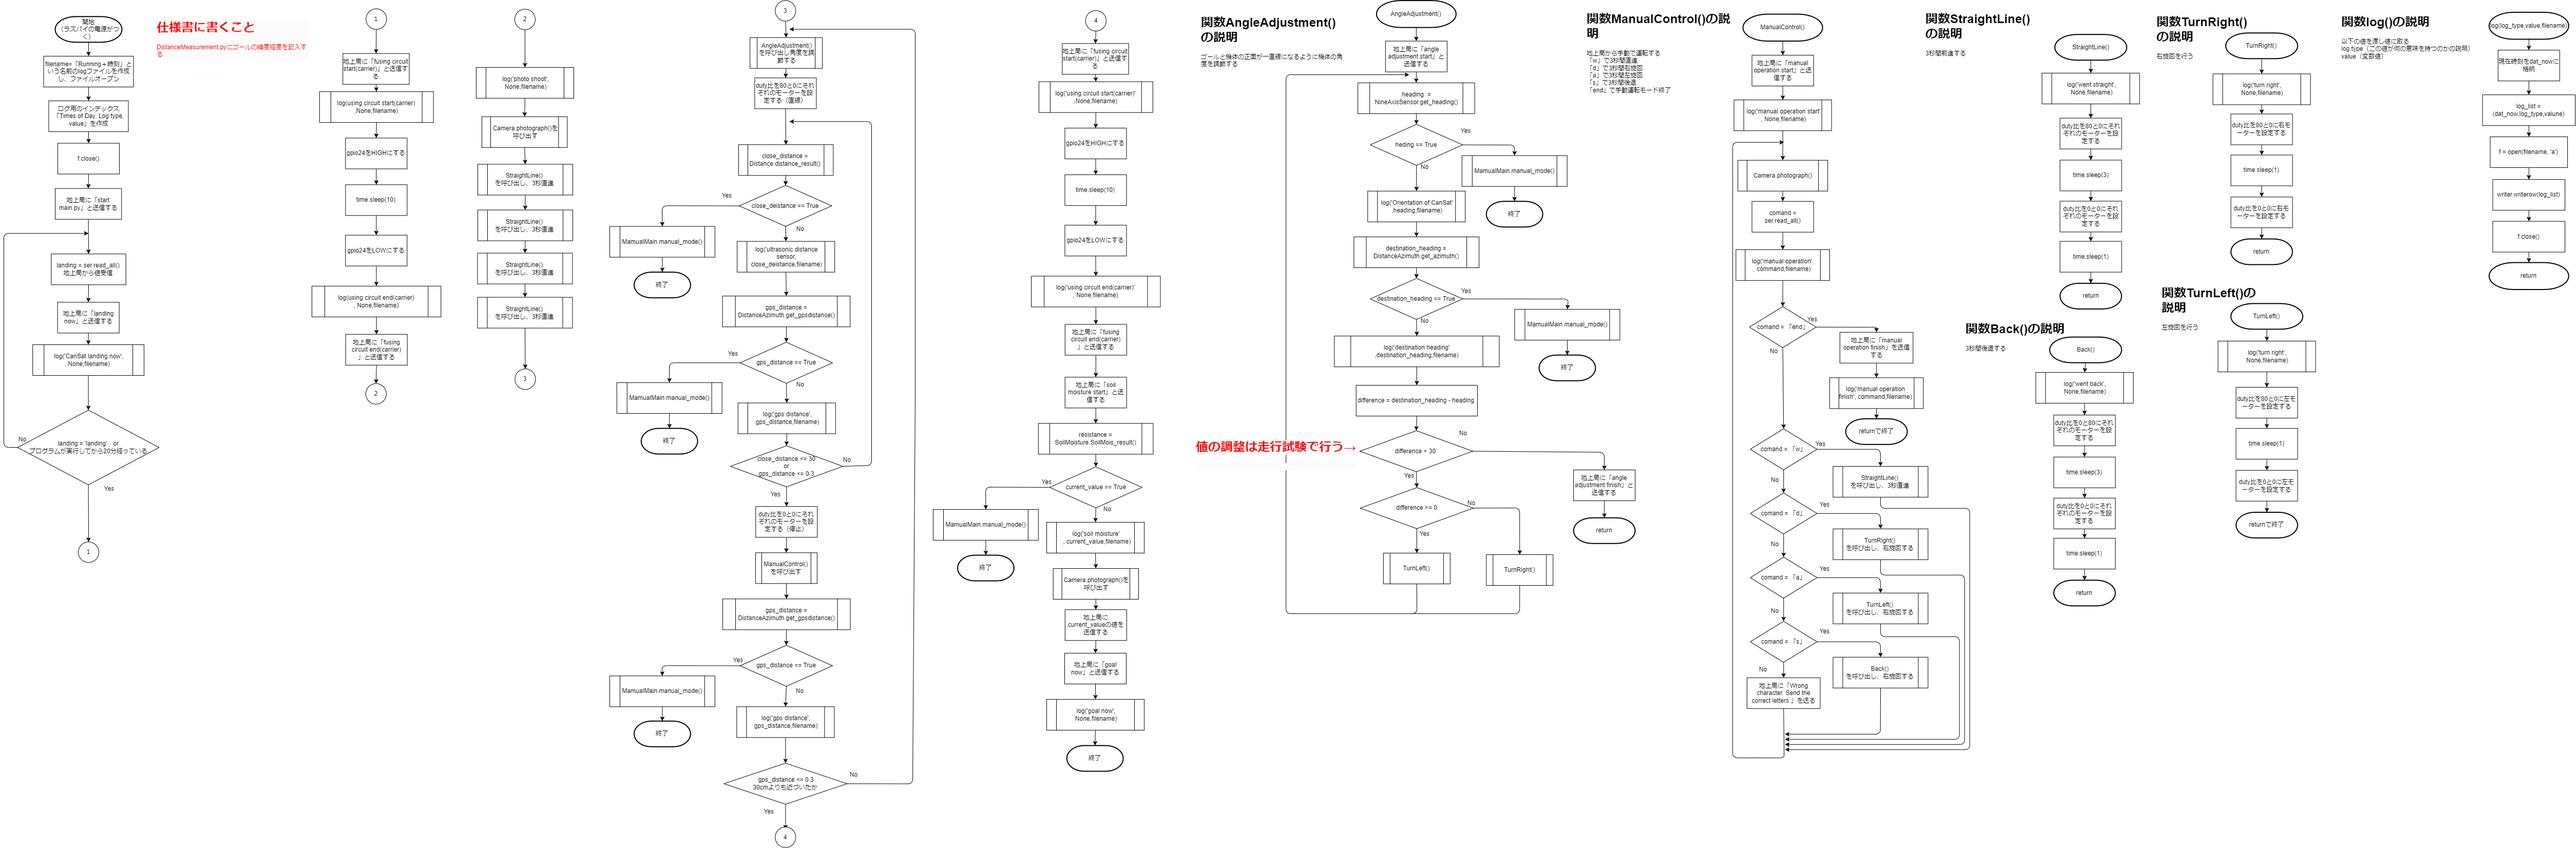
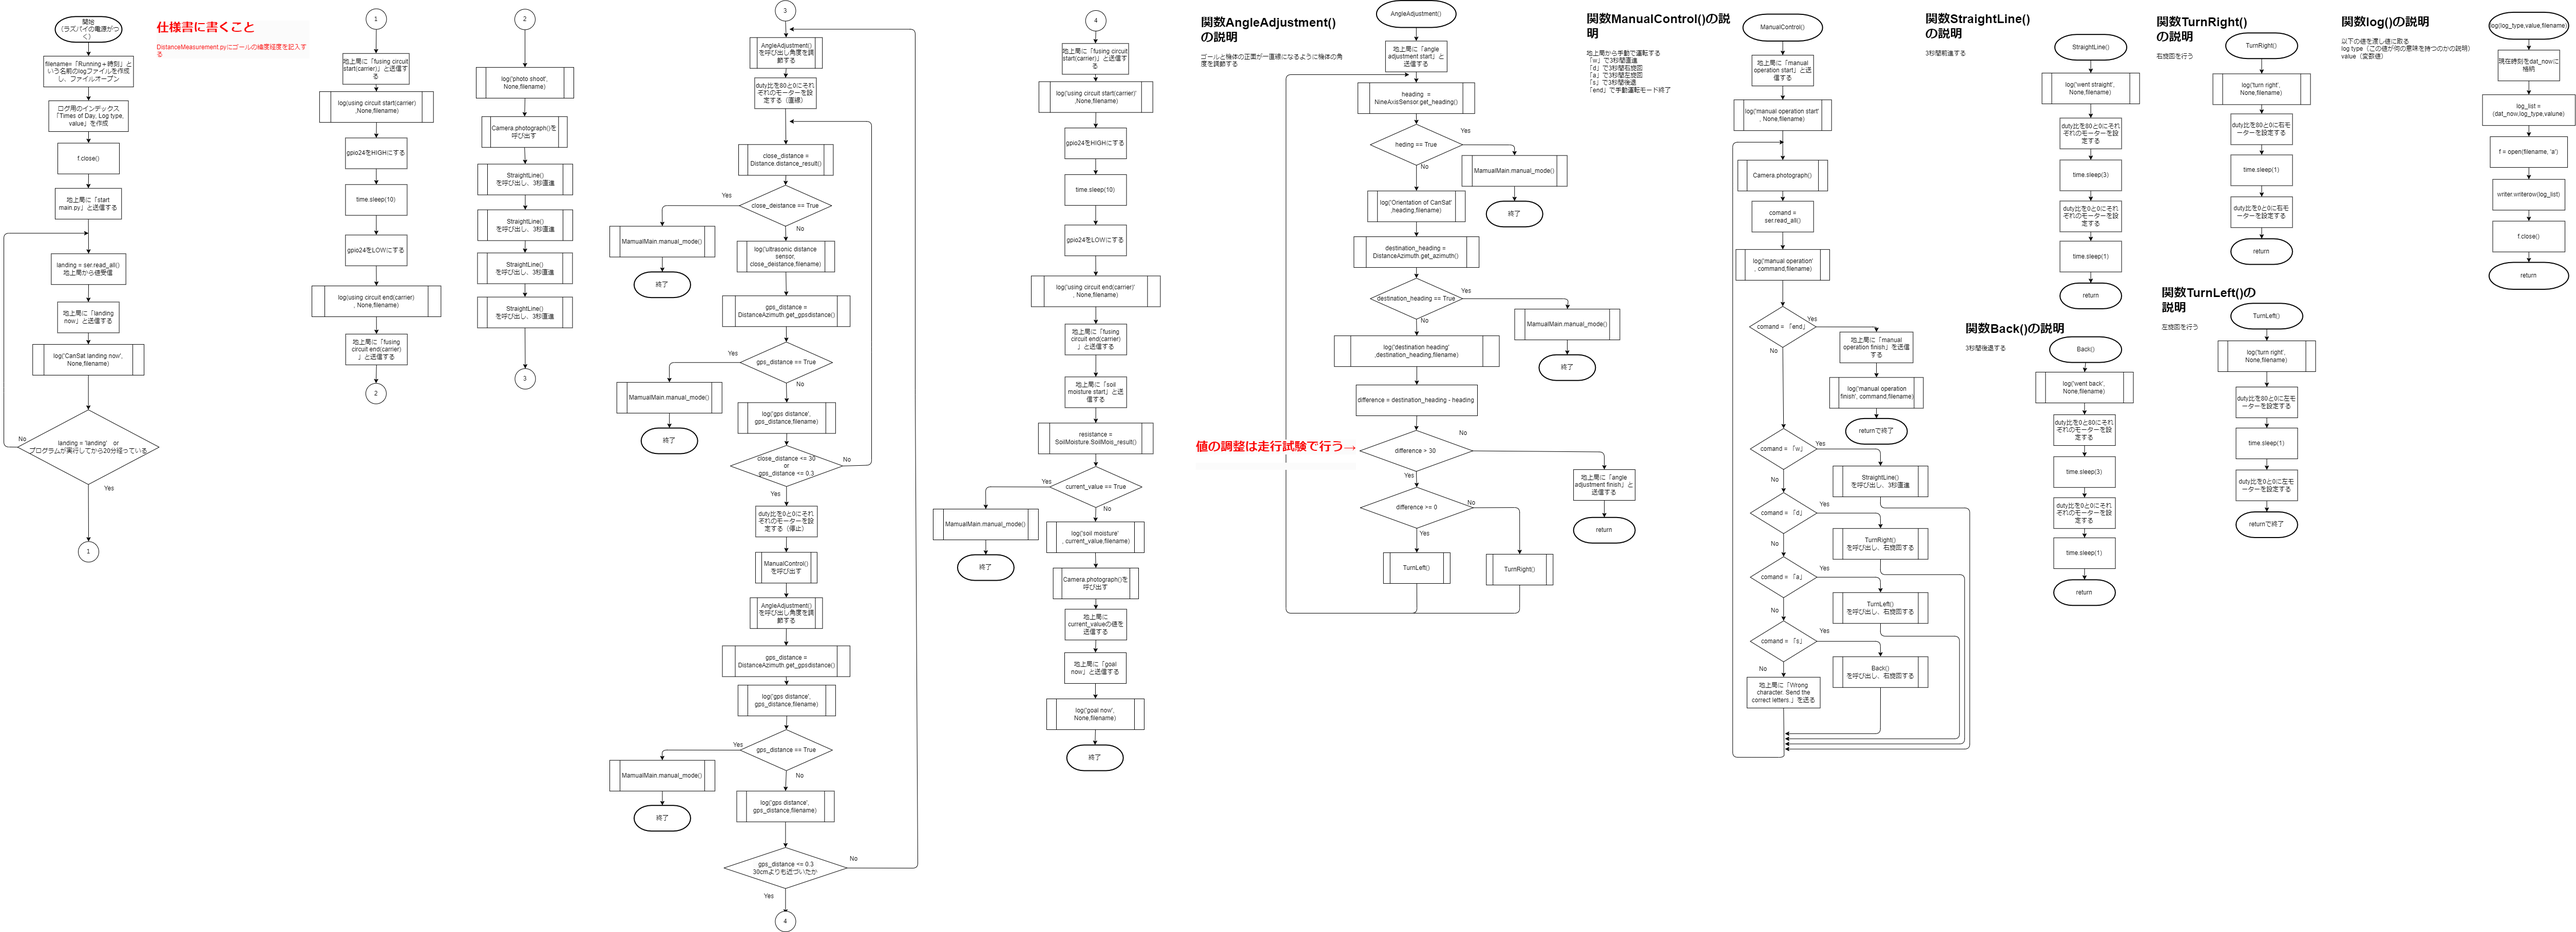
微調整

diff --git a/実験用プログラム/DrivingTest.py b/実験用プログラム/DrivingTest.py
@@ -8,95 +8,100 @@ import Camera   #カメラモジュール
 import NineAxisSensor   #9軸センサ
 import DistanceAzimuth  #GPSからゴールとの直線距離と方位角を求める
 import Distance     #超音波距離センサ
-import SoilMoisture #土壌水分センサ
+import ManualMain #手動運転モード
 
+#===moterの配線===
+GPIO.setwarnings(False)
+GPIO.setmode(GPIO.BCM)
+GPIO.setup(5, GPIO.OUT)
+GPIO.setup(6, GPIO.OUT)
+GPIO.setup(19, GPIO.OUT)
+GPIO.setup(26, GPIO.OUT)
 
-#===3秒間前進する関数　引数：なし　戻り値：なし===
-def StraightLine():
-    p1.ChangeDutyCycle(80) #duty比（moterで動かすための値）
-    p2.ChangeDutyCycle(0)
-    p3.ChangeDutyCycle(80) #duty比（moterで動かすための値）
-    p4.ChangeDutyCycle(0)
-    time.sleep(3)
-    p1.ChangeDutyCycle(0)
-    p2.ChangeDutyCycle(0)
-    p3.ChangeDutyCycle(0)
-    p4.ChangeDutyCycle(0)
-    time.sleep(1)
-    return
+#===進行方向に機体を置き、後ろから見た時の右モーター===
+p1 = GPIO.PWM(6, 50) #50Hz
+p2 = GPIO.PWM(5, 50) #50Hz
+#===進行方向に機体を置き、後ろから見た時の左モーター===
+p3 = GPIO.PWM(19, 50) #50Hz
+p4 = GPIO.PWM(26, 50) #50Hz
 
-#===3秒間後退する関数　引数：なし　戻り値：なし===
-def Back():
-    p1.ChangeDutyCycle(0) #duty比（moterで動かすための値）
-    p2.ChangeDutyCycle(80)
-    p3.ChangeDutyCycle(0) #duty比（moterで動かすための値）
-    p4.ChangeDutyCycle(80)
-    time.sleep(3)
-    p1.ChangeDutyCycle(0)
-    p2.ChangeDutyCycle(0)
-    p3.ChangeDutyCycle(0)
-    p4.ChangeDutyCycle(0)
-    time.sleep(1)
-    return
-
-#===右旋回する関数　引数：なし　戻り値：なし===
-def TurnRight():
-    p1.ChangeDutyCycle(100) #duty比（moterで動かすための値）
-    p2.ChangeDutyCycle(0)
-    time.sleep(1)   
-    p1.ChangeDutyCycle(0)
-    p2.ChangeDutyCycle(0)
-    time.sleep(1)
-    return
-
-#===左旋回する関数　引数：なし　戻り値：なし===
-def TurnLeft():
-    p3.ChangeDutyCycle(100) #duty比（moterで動かすための値）
-    p4.ChangeDutyCycle(0)
-    time.sleep(1)   
-    p3.ChangeDutyCycle(0)
-    p4.ChangeDutyCycle(0)
-    time.sleep(1)
-    return
+p1.start(0)
+p2.start(0)
+p3.start(0)
+p4.start(0)
 
 #===地上局から手動で運転する関数　引数：なし　戻り値：なし===
 def ManualControl():
     ser = serial.Serial(PORT, BAUD_RATE)
     ser.write(b'manual operation start')
-    log('manual operation start','none')    #関数logにマニュアル運転がスタートしたと残す
+    log('manual operation start',None,filename)    #関数logにマニュアル運転がスタートしたと残す
 
     while True:
-        Camera.photograph() #カメラの写真を送信
+        #Camera.photograph() #カメラの写真を送信
         command = ser.read_all()
-        log('manual operation',command) #関数ログに値を渡す
+        log('manual operation',command,filename) #関数ログに値を渡す
         ser.write(b'receive')   #地上局に受け取った値を戻す
         ser.write(command.encode('utf-8'))
 
         if command == b'end':    #地上局から「end」を受け取ったらManualControlを終了する
+            ser.write(b'manual operation finish')
+            log('manual operation finish',None,filename)
+            ser.close()
             break
         elif command == b'w':    #地上局から「w」を受け取ったら3秒間直進する
-            StraightLine()
+                log('went straight',None,filename)   #前進したというログを残す
+                p1.ChangeDutyCycle(80) #duty比（moterで動かすための値）
+                p2.ChangeDutyCycle(0)
+                p3.ChangeDutyCycle(80) #duty比（moterで動かすための値）
+                p4.ChangeDutyCycle(0)
+                time.sleep(3)
+                p1.ChangeDutyCycle(0)
+                p2.ChangeDutyCycle(0)
+                p3.ChangeDutyCycle(0)
+                p4.ChangeDutyCycle(0)
+                time.sleep(1)
         elif command == b'd':    #地上局から「d」を受け取ったら右旋回する
-            TurnRight()
+                log('turn right',None,filename)   #右旋回したというログを残す
+                p1.ChangeDutyCycle(100) #duty比（moterで動かすための値）
+                p2.ChangeDutyCycle(0)
+                time.sleep(1)   
+                p1.ChangeDutyCycle(0)
+                p2.ChangeDutyCycle(0)
+                time.sleep(1)
         elif command == b'a':    #地上局から「a」を受け取ったら左旋回する
-            TurnLeft()
+                log('turn left',None,filename)   #左旋回したというログを残す
+                p3.ChangeDutyCycle(100) #duty比（moterで動かすための値）
+                p4.ChangeDutyCycle(0)
+                time.sleep(1)   
+                p3.ChangeDutyCycle(0)
+                p4.ChangeDutyCycle(0)
+                time.sleep(1)
         elif command == b's':    #地上局から「s」を受け取ったら3秒間後退する
-            Back()
+                log('went back',None,filename)   #後退したというログを残す
+                p1.ChangeDutyCycle(0) #duty比（moterで動かすための値）
+                p2.ChangeDutyCycle(80)
+                p3.ChangeDutyCycle(0) #duty比（moterで動かすための値）
+                p4.ChangeDutyCycle(80)
+                time.sleep(3)
+                p1.ChangeDutyCycle(0)
+                p2.ChangeDutyCycle(0)
+                p3.ChangeDutyCycle(0)
+                p4.ChangeDutyCycle(0)
+                time.sleep(1)
+        elif command == b'':
+            pass
         else:   #どの条件分岐にも当てはまらなかったら地上局に文字が違うと送る
             ser.write(b'Wrong character.Send the correct letters.')
 
-    ser.close()
     return 
 
-#===logを残す関数　引数：log_type(この値が何の意味を持つのかの説明),value(変数値)　戻り値：なし===
-def log(log_type,value):
-    dat_now = datetime.datetime.now()   #現在日時を取得する
-    explanation = log_type
-    variable = value
-    writer = csv.writer(f, lineterminator='\n') 
-    log_list = [dat_now,explanation,variable]   #リストに各値を挿入
-
+#===logを残す関数　引数：log_type(この値が何の意味を持つのかの説明),value(変数値),filename(グローバルで定義したファイル名)　戻り値：なし===
+def log(log_type,value,filename):
     f = open(filename,'a')
+    dat_now = datetime.datetime.now()   #現在日時を取得する
+    writer = csv.writer(f, lineterminator='\n') 
+    log_list = (dat_now,log_type,value)   #リストに各値を挿入
+
     writer.writerow(log_list)
     print(log_list)
     f.close()
@@ -109,19 +114,39 @@ def AngleAdjustment():
     ser.write(b'angle adjustment start')    #ゴールと機体の正面が一直線になるように機体の角度を調節するフェーズになったと地上局に送る
 
     while True:
-        heading = NineAxisSensor.Azimuth()    #9軸センサの地磁気値を呼び出す関数名が変更になる可能性大　地磁気から求めた磁方位角を格納する
-        log('Orientation of CanSat',heading)
+        heading = NineAxisSensor.Azimuth()    #地磁気から求めた磁方位角を格納する
+
+        if heading == True: #９軸センサがOSErrer出てないかの条件分岐
+            ManualMain.manual_mode() #手動運転モードに切り替える
+        else:
+            log('Orientation of CanSat',heading,filename)
 
         distination_heading = DistanceAzimuth.get_azimuth() #緯度経度から求めた方位角を格納する
-        log('destination heading',distination_heading)
+
+        if distination_heading == True: #gpsがエラー出てないかの条件分岐
+            ManualMain.manual_mode() #手動運転モードに切り替える
+        else:
+            log('destination heading',distination_heading,filename)
 
         difference = distination_heading - heading
 
         if difference>30:   #ここの値の調節は走行試験で行う
             if difference>=0:
-                TurnLeft()
+                log('turn left',None,filename)   #左旋回したというログを残す
+                p3.ChangeDutyCycle(100) #duty比（moterで動かすための値）
+                p4.ChangeDutyCycle(0)
+                time.sleep(1)   
+                p3.ChangeDutyCycle(0)
+                p4.ChangeDutyCycle(0)
+                time.sleep(1)
             else:
-                TurnRight()
+                    log('turn right',None,filename)   #右旋回したというログを残す
+                    p1.ChangeDutyCycle(100) #duty比（moterで動かすための値）
+                    p2.ChangeDutyCycle(0)
+                    time.sleep(1)   
+                    p1.ChangeDutyCycle(0)
+                    p2.ChangeDutyCycle(0)
+                    time.sleep(1)
         else:
             ser.write(b'angle adjustment finish')
             break
@@ -130,39 +155,8 @@ def AngleAdjustment():
     ser.close()
     return 
 
-
-#===溶断回路の設定(ピン番号変わる可能性あり)===
-soil_moisture_spring = 23
-carrier = 24
-
 # ===GPIO番号指定の準備===
 GPIO.setmode(GPIO.BCM)
-
-# ===溶断回路の配線===
-GPIO.setup(soil_moisture_spring, GPIO.OUT)
-GPIO.setup(carrier, GPIO.OUT)
-
-
-#===moterの配線===
-GPIO.setwarnings(False)
-GPIO.setmode(GPIO.BCM)
-GPIO.setup(5, GPIO.OUT)
-GPIO.setup(6, GPIO.OUT)
-GPIO.setup(19, GPIO.OUT)
-GPIO.setup(26, GPIO.OUT)
-
-#===進行方向に機体を置き、後ろから見た時の右モーター===
-p2 = GPIO.PWM(5, 50) #50Hz
-p1 = GPIO.PWM(6, 50) #50Hz
-
-#===進行方向に機体を置き、後ろから見た時の左モーター===
-p3 = GPIO.PWM(19, 50) #50Hz
-p4 = GPIO.PWM(26, 50) #50Hz
-
-p1.start(0)
-p2.start(0)
-p3.start(0)
-p4.start(0)
 
 #プログラムの処理時間を求めるための基準値
 start_time = time.time()
@@ -178,16 +172,27 @@ filename = 'Running' + dt_start.strftime('%Y年%m月%d日_%H時%M分%S秒') + '.
 
 f = open(filename, 'a')     
 writer = csv.writer(f, lineterminator='\n') 
-index=['Time of Day','Log type value','value']  #表のインデックスを付ける
+index=('Time of Day','Log type value','value')  #表のインデックスを付ける
 writer.writerow(index)
 f.close()
 
 #===メインプログラム===
 #---機体をゴールまで進ませる---
 
-log('photo shoot',None)
-    
+log('photo shoot',None,filename)
 Camera.photograph() #写真を撮って地上局に伝える
+
+log('went straight',None,filename)   #前進したというログを残す
+p1.ChangeDutyCycle(80) #duty比（moterで動かすための値）
+p2.ChangeDutyCycle(0)
+p3.ChangeDutyCycle(80) #duty比（moterで動かすための値）
+p4.ChangeDutyCycle(0)
+time.sleep(9)
+p1.ChangeDutyCycle(0)
+p2.ChangeDutyCycle(0)
+p3.ChangeDutyCycle(0)
+p4.ChangeDutyCycle(0)
+time.sleep(1)
 
 AngleAdjustment()   #ゴールと機体の向きを一直線にする
     
@@ -199,10 +204,16 @@ p4.ChangeDutyCycle(0)
 
 while True:
     close_distance = Distance.distance_result() #障害物との距離を調べる
-    log('ultrasonic distance sensor',close_distance)
+    if close_distance == True:#距離センサがOSErrer出てないかの条件分岐
+        ManualMain.manual_mode() #手動運転モードに切り替える
+    else:
+        log('ultrasonic distance sensor',close_distance,filename)
 
     gps_distance = DistanceAzimuth.get_gpsdistance()    #gpsセンサでゴールとの直線距離を求める
-    log('gps distance',gps_distance)
+    if gps_distance == True: #距離センサがOSErrer出てないかの条件分岐
+        ManualMain.manual_mode() #手動運転モードに切り替える
+    else:
+        log('gps distance',gps_distance,filename)
 
     if close_distance<=30 or gps_distance<=0.3: #障害物に近づくかゴールに近づいたかどうか
         #--停止--
@@ -212,43 +223,15 @@ while True:
         p4.ChangeDutyCycle(0)
 
         ManualControl() #手動運転に切り替える
+        AngleAdjustment()   #ゴールと機体の向きを一直線にする
 
         gps_distance = DistanceAzimuth.get_gpsdistance()    #gpsセンサでゴールとの直線距離を求める
-        log('gps distance',gps_distance)
+        if gps_distance == True: #距離センサがOSErrer出てないかの条件分岐
+            ManualMain.manual_mode() #手動運転モードに切り替える
+        else:
+            log('gps distance',gps_distance,filename)
 
         if gps_distance <=0.3:
             break
     
     time.sleep(0.5)
-
-#---溶断回路を動かす（土壌水分センサのバネ開放）---
-ser = serial.Serial(PORT, BAUD_RATE,timeout=0.1)
-ser.write(b'fusing circuit start(soil moisture)')  #溶断回路を動かすと地上局に伝える
-ser.close()
-
-log('using circuit start(soil moisture)',None)
-
-GPIO.output(soil_moisture_spring, 1)    # 溶断開始
-time.sleep(10)               # 10秒待機
-GPIO.output(soil_moisture_spring, 0) #溶断停止
-
-log('using circuit end(soil moisture)',None)
-
-ser = serial.Serial(PORT, BAUD_RATE,timeout=0.1)
-ser.write(b'fusing circuit end(soil moisture)')  #溶断回路を動かすと地上局に伝える
-ser.close()
-
-#---土壌水分センサを動かす---
-ser = serial.Serial(PORT, BAUD_RATE,timeout=0.1)
-ser.write(b'soil moisture start')  #土壌水分センサを動かすと地上局に伝える
-ser.close()
-
-resistance = SoilMoisture.SoilMois_result()
-log('soil moisture',resistance)
-
-ser = serial.Serial(PORT, BAUD_RATE,timeout=0.1)
-resistance_result = str(resistance)
-ser.write(resistance_result.encode('utf-8'))    #土壌水分センサの抵抗値を測る
-ser.write(b'goal now')  #土壌水分センサを動かすと地上局に伝える
-ser.close()
-log('goal now',None)

diff --git a/走行用プログラム/main.py b/走行用プログラム/main.py
@@ -277,6 +277,7 @@ while True:
         p4.ChangeDutyCycle(0)
 
         ManualControl() #手動運転に切り替える
+        AngleAdjustment()   #ゴールと機体の向きを一直線にする
 
         gps_distance = DistanceAzimuth.get_gpsdistance()    #gpsセンサでゴールとの直線距離を求める
         if gps_distance == True: #距離センサがOSErrer出てないかの条件分岐
